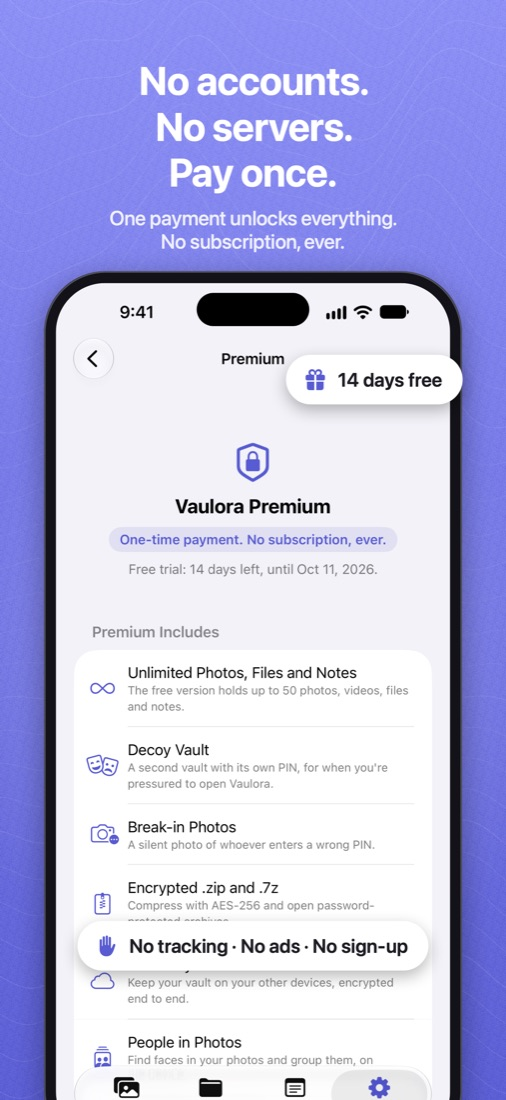
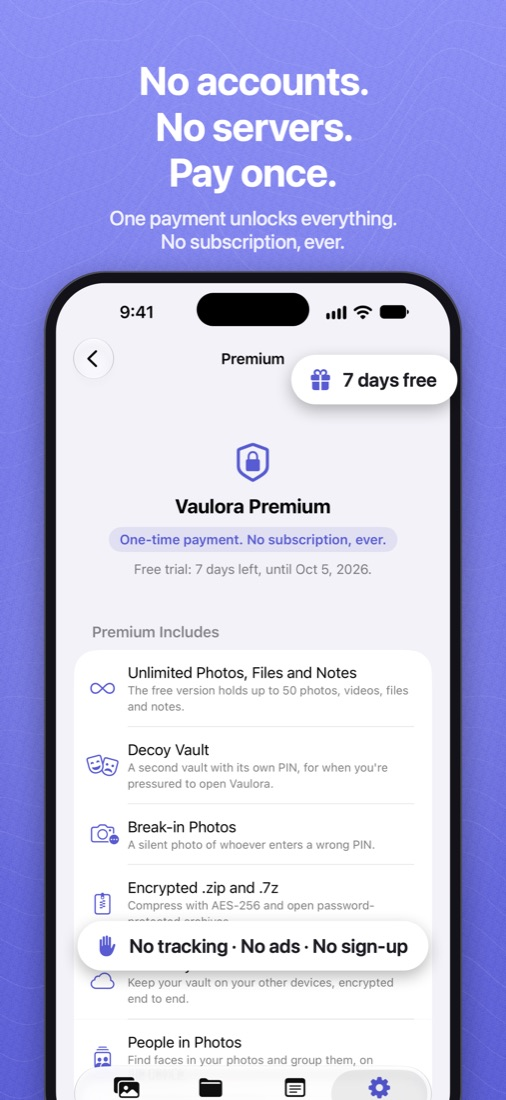
Free trial is 7 days instead of 14
- Trial length and product ID (com.vaulora.premium.trial7), the Premium screen's strings in all
  languages, the StoreKit test configuration and tests
- App Store listings, in-app purchase names and descriptions, review notes, the website, the
  privacy policy and the docs
- The Premium screenshot (card 8) retaken on iPhone and iPad

Changed region(s): [[0.2668, 0.4945, 0.7411, 0.5255], [0.5632, 0.3091, 0.919, 0.3709]]

diff --git a/el/index.html b/el/index.html
@@ -31,7 +31,7 @@
     <p class="brand">Vaulora</p>
     <h1>Οι προσωπικές σας φωτογραφίες, κλειδωμένες.</h1>
     <p class="lead">Το Vaulora κρύβει φωτογραφίες, βίντεο, έγγραφα και σημειώσεις σε μια κρύπτη κρυπτογραφημένη στο iPhone, το iPad ή το Mac σας. Χωρίς λογαριασμούς. Χωρίς διακομιστές. Μία πληρωμή.</p>
-    <p class="cta"><span class="badge">Σύντομα στο App Store</span><span class="note">Δωρεάν δοκιμή 14 ημερών</span></p>
+    <p class="cta"><span class="badge">Σύντομα στο App Store</span><span class="note">Δωρεάν δοκιμή 7 ημερών</span></p>
   </div>
   <div class="screens" role="img" aria-label="Στιγμιότυπα οθόνης του Vaulora">
     <div class="strip">
@@ -104,7 +104,7 @@
   </section>
   <section class="panel price">
     <h2>Πληρώνετε μία φορά. Δικό σας για πάντα.</h2>
-    <p>Όλες οι λειτουργίες είναι δωρεάν για 14 ημέρες. Μετά, το Premium εφ’ όρου ζωής είναι μία πληρωμή, ποτέ συνδρομή, σε όλες τις συσκευές σας. Χωρίς αυτό, το Vaulora συνεχίζει να λειτουργεί για έως 50 φωτογραφίες, αρχεία και σημειώσεις, και ό,τι προσθέσατε μένει δικό σας για άνοιγμα, εξαγωγή και διαγραφή.</p>
+    <p>Όλες οι λειτουργίες είναι δωρεάν για 7 ημέρες. Μετά, το Premium εφ’ όρου ζωής είναι μία πληρωμή, ποτέ συνδρομή, σε όλες τις συσκευές σας. Χωρίς αυτό, το Vaulora συνεχίζει να λειτουργεί για έως 50 φωτογραφίες, αρχεία και σημειώσεις, και ό,τι προσθέσατε μένει δικό σας για άνοιγμα, εξαγωγή και διαγραφή.</p>
   </section>
 </main>
 <footer class="wrap">

diff --git a/fr/index.html b/fr/index.html
@@ -31,7 +31,7 @@
     <p class="brand">Vaulora</p>
     <h1>Vos photos privées, sous clé.</h1>
     <p class="lead">Vaulora cache vos photos, vidéos, documents et notes dans un coffre-fort chiffré sur votre iPhone, iPad ou Mac. Pas de compte. Pas de serveur. Un seul paiement.</p>
-    <p class="cta"><span class="badge">Bientôt sur l’App Store</span><span class="note">Essai gratuit de 14 jours</span></p>
+    <p class="cta"><span class="badge">Bientôt sur l’App Store</span><span class="note">Essai gratuit de 7 jours</span></p>
   </div>
   <div class="screens" role="img" aria-label="Captures d’écran de Vaulora">
     <div class="strip">
@@ -104,7 +104,7 @@
   </section>
   <section class="panel price">
     <h2>Un seul paiement. À vous pour toujours.</h2>
-    <p>Toutes les fonctions sont gratuites pendant 14 jours. Ensuite, Premium à vie est un paiement unique, jamais un abonnement, sur tous vos appareils. Sans lui, Vaulora continue de fonctionner avec jusqu’à 50 photos, fichiers et notes, et tout ce que vous avez ajouté reste à vous : vous pouvez l’ouvrir, l’exporter et le supprimer.</p>
+    <p>Toutes les fonctions sont gratuites pendant 7 jours. Ensuite, Premium à vie est un paiement unique, jamais un abonnement, sur tous vos appareils. Sans lui, Vaulora continue de fonctionner avec jusqu’à 50 photos, fichiers et notes, et tout ce que vous avez ajouté reste à vous : vous pouvez l’ouvrir, l’exporter et le supprimer.</p>
   </section>
 </main>
 <footer class="wrap">

diff --git a/privacy.html b/privacy.html
@@ -33,7 +33,7 @@
   <p>If you turn on iCloud sync, Vaulora stores a copy of your vault in your own private iCloud database using Apple's CloudKit. The copy is exactly as encrypted as it is on your device, so it can only be opened with your PIN, password or recovery key. The developer has no access to your iCloud data. Apple's handling of iCloud data is described in <a href="https://www.apple.com/legal/privacy/">Apple's Privacy Policy</a>. You can turn sync off and delete the iCloud copy in Vaulora's settings.</p>
 
   <h2>Purchases</h2>
-  <p>Vaulora Premium is a one-time in-app purchase, and the 14-day trial is a free one. Both are handled entirely by Apple through the App Store. Vaulora checks on your device which of them your Apple ID owns; the developer receives no personal information about you from Apple, only the anonymous sales reports Apple gives every developer.</p>
+  <p>Vaulora Premium is a one-time in-app purchase, and the 7-day trial is a free one. Both are handled entirely by Apple through the App Store. Vaulora checks on your device which of them your Apple ID owns; the developer receives no personal information about you from Apple, only the anonymous sales reports Apple gives every developer.</p>
 
   <h2>Backups and archives you create</h2>
   <p>When you export a backup or share files, Vaulora creates the file you asked for and hands it to the share sheet. Where it goes from there is up to you. Backups and archives are protected by the password you choose.</p>

diff --git a/de/index.html b/de/index.html
@@ -31,7 +31,7 @@
     <p class="brand">Vaulora</p>
     <h1>Deine privaten Fotos, sicher verschlossen.</h1>
     <p class="lead">Vaulora versteckt Fotos, Videos, Dokumente und Notizen in einem Tresor, der auf deinem iPhone, iPad oder Mac verschlüsselt ist. Keine Konten. Keine Server. Einmal zahlen.</p>
-    <p class="cta"><span class="badge">Bald im App Store</span><span class="note">14 Tage kostenlos testen</span></p>
+    <p class="cta"><span class="badge">Bald im App Store</span><span class="note">7 Tage kostenlos testen</span></p>
   </div>
   <div class="screens" role="img" aria-label="Bildschirmfotos von Vaulora">
     <div class="strip">
@@ -104,7 +104,7 @@
   </section>
   <section class="panel price">
     <h2>Einmal zahlen. Für immer behalten.</h2>
-    <p>Alle Funktionen sind 14 Tage kostenlos. Danach ist Premium auf Lebenszeit eine einmalige Zahlung, nie ein Abo, auf all deinen Geräten. Ohne Premium funktioniert Vaulora weiter für bis zu 50 Fotos, Dateien und Notizen, und alles, was du hinzugefügt hast, kannst du weiter öffnen, exportieren und löschen.</p>
+    <p>Alle Funktionen sind 7 Tage kostenlos. Danach ist Premium auf Lebenszeit eine einmalige Zahlung, nie ein Abo, auf all deinen Geräten. Ohne Premium funktioniert Vaulora weiter für bis zu 50 Fotos, Dateien und Notizen, und alles, was du hinzugefügt hast, kannst du weiter öffnen, exportieren und löschen.</p>
   </section>
 </main>
 <footer class="wrap">

diff --git a/pt-br/index.html b/pt-br/index.html
@@ -31,7 +31,7 @@
     <p class="brand">Vaulora</p>
     <h1>Suas fotos privadas, trancadas.</h1>
     <p class="lead">O Vaulora esconde fotos, vídeos, documentos e notas em um cofre criptografado no seu iPhone, iPad ou Mac. Sem contas. Sem servidores. Pague uma vez.</p>
-    <p class="cta"><span class="badge">Em breve na App Store</span><span class="note">Teste grátis por 14 dias</span></p>
+    <p class="cta"><span class="badge">Em breve na App Store</span><span class="note">Teste grátis por 7 dias</span></p>
   </div>
   <div class="screens" role="img" aria-label="Capturas de tela do Vaulora">
     <div class="strip">
@@ -104,7 +104,7 @@
   </section>
   <section class="panel price">
     <h2>Pague uma vez. É seu para sempre.</h2>
-    <p>Todos os recursos são grátis por 14 dias. Depois, o Premium vitalício é um pagamento único, nunca uma assinatura, em todos os seus dispositivos. Sem ele, o Vaulora continua funcionando com até 50 fotos, arquivos e notas, e tudo o que você adicionou continua seu para abrir, exportar e apagar.</p>
+    <p>Todos os recursos são grátis por 7 dias. Depois, o Premium vitalício é um pagamento único, nunca uma assinatura, em todos os seus dispositivos. Sem ele, o Vaulora continua funcionando com até 50 fotos, arquivos e notas, e tudo o que você adicionou continua seu para abrir, exportar e apagar.</p>
   </section>
 </main>
 <footer class="wrap">

diff --git a/es/index.html b/es/index.html
@@ -31,7 +31,7 @@
     <p class="brand">Vaulora</p>
     <h1>Tus fotos privadas, bajo llave.</h1>
     <p class="lead">Vaulora oculta fotos, videos, documentos y notas en una bóveda encriptada en tu iPhone, iPad o Mac. Sin cuentas. Sin servidores. Paga una vez.</p>
-    <p class="cta"><span class="badge">Muy pronto en el App Store</span><span class="note">Pruébala gratis 14 días</span></p>
+    <p class="cta"><span class="badge">Muy pronto en el App Store</span><span class="note">Pruébala gratis 7 días</span></p>
   </div>
   <div class="screens" role="img" aria-label="Capturas de pantalla de Vaulora">
     <div class="strip">
@@ -104,7 +104,7 @@
   </section>
   <section class="panel price">
     <h2>Paga una vez. Es tuyo para siempre.</h2>
-    <p>Todas las funciones son gratis por 14 días. Después, Premium de por vida es un pago único, nunca una suscripción, en todos tus dispositivos. Sin él, Vaulora sigue funcionando con hasta 50 fotos, archivos y notas, y todo lo que agregaste sigue siendo tuyo para abrir, exportar y eliminar.</p>
+    <p>Todas las funciones son gratis por 7 días. Después, Premium de por vida es un pago único, nunca una suscripción, en todos tus dispositivos. Sin él, Vaulora sigue funcionando con hasta 50 fotos, archivos y notas, y todo lo que agregaste sigue siendo tuyo para abrir, exportar y eliminar.</p>
   </section>
 </main>
 <footer class="wrap">

diff --git a/it/index.html b/it/index.html
@@ -31,7 +31,7 @@
     <p class="brand">Vaulora</p>
     <h1>Le tue foto private, sotto chiave.</h1>
     <p class="lead">Vaulora nasconde foto, video, documenti e note in una cassaforte crittografata sul tuo iPhone, iPad o Mac. Nessun account. Nessun server. Paghi una volta.</p>
-    <p class="cta"><span class="badge">Presto su App Store</span><span class="note">Provala gratis per 14 giorni</span></p>
+    <p class="cta"><span class="badge">Presto su App Store</span><span class="note">Provala gratis per 7 giorni</span></p>
   </div>
   <div class="screens" role="img" aria-label="Schermate di Vaulora">
     <div class="strip">
@@ -104,7 +104,7 @@
   </section>
   <section class="panel price">
     <h2>Paghi una volta. Tua per sempre.</h2>
-    <p>Tutte le funzioni sono gratuite per 14 giorni. Poi Premium a vita è un pagamento unico, mai un abbonamento, su tutti i tuoi dispositivi. Senza, Vaulora continua a funzionare con fino a 50 foto, file e note, e tutto ciò che hai aggiunto resta tuo da aprire, esportare ed eliminare.</p>
+    <p>Tutte le funzioni sono gratuite per 7 giorni. Poi Premium a vita è un pagamento unico, mai un abbonamento, su tutti i tuoi dispositivi. Senza, Vaulora continua a funzionare con fino a 50 foto, file e note, e tutto ciò che hai aggiunto resta tuo da aprire, esportare ed eliminare.</p>
   </section>
 </main>
 <footer class="wrap">

diff --git a/index.html b/index.html
@@ -31,7 +31,7 @@
     <p class="brand">Vaulora</p>
     <h1>Your private photos, locked away.</h1>
     <p class="lead">Vaulora hides photos, videos, documents and notes in a vault that&#x27;s encrypted on your iPhone, iPad or Mac. No accounts. No servers. Pay once.</p>
-    <p class="cta"><span class="badge">Coming soon to the App Store</span><span class="note">Free to try for 14 days</span></p>
+    <p class="cta"><span class="badge">Coming soon to the App Store</span><span class="note">Free to try for 7 days</span></p>
   </div>
   <div class="screens" role="img" aria-label="Vaulora screenshots">
     <div class="strip">
@@ -104,7 +104,7 @@
   </section>
   <section class="panel price">
     <h2>Pay once. Keep it forever.</h2>
-    <p>Every feature is free for 14 days. Then Lifetime Premium is a single payment, never a subscription, on all your devices. Without it, Vaulora keeps working for up to 50 photos, files and notes, and everything you added stays yours to open, export and delete.</p>
+    <p>Every feature is free for 7 days. Then Lifetime Premium is a single payment, never a subscription, on all your devices. Without it, Vaulora keeps working for up to 50 photos, files and notes, and everything you added stays yours to open, export and delete.</p>
   </section>
 </main>
 <footer class="wrap">
